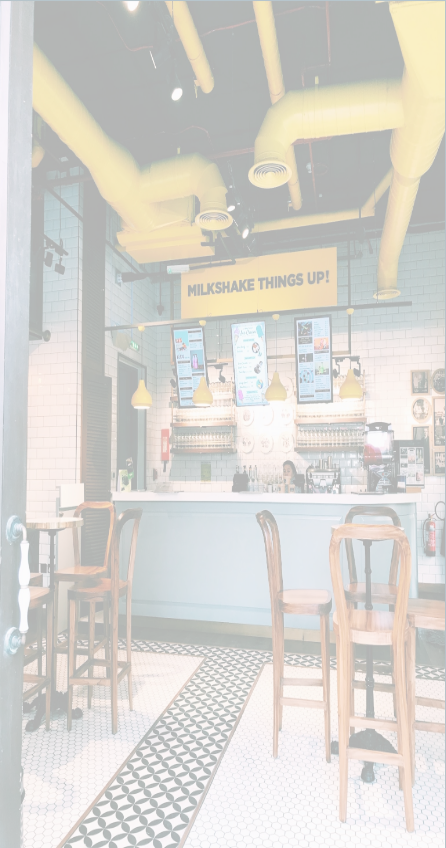
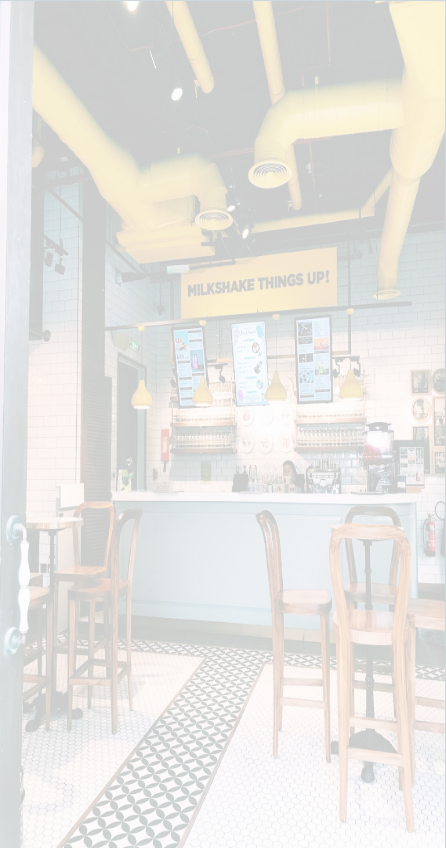
image and hamburger menu changes

diff --git a/reservation_style.css b/reservation_style.css
@@ -262,7 +262,7 @@ button:hover {
 
 @media only screen and (max-width: 768px) {
     body {
-        background-image: url(images/output-onlinepngtools.png);
+        background-image: url(images/luxa.org-opacity-changed-background.png);
       }
     .menu-items {
         display: none; 
@@ -417,7 +417,7 @@ button:hover {
   
     /* Style for the dropdown menu */
     .menu {
-      background-image: url(images/output-onlinepngtools.png);
+      background-image: url(images/luxa.org-opacity-changed-background.png);
       position: fixed;
       top: 0;
       left: 0;
@@ -441,6 +441,7 @@ button:hover {
       text-decoration: none;
       color: black;
       font-size: 18px;
+      font-weight: bold;
     }
   
     /* Style for the hamburger menu toggle */
@@ -516,7 +517,7 @@ button:hover {
     }
   
     body {
-      background-image: url(images/output-onlinepngtools.png);
+      background-image: url(images/luxa.org-opacity-changed-background.png);
     }
     .shopping-cart-icon img {
       height: 25px;
@@ -570,11 +571,12 @@ button:hover {
   
   /* Switch styles */
   .switch {
-    position: fixed;
+    position: absolute;
     display: inline-block;
-    width: 36px;
+    width: 40px;
     height: 20px;
     right: 20px;
+    top: 235px;
   }
   
   .slider {
@@ -584,7 +586,7 @@ button:hover {
     left: 0;
     right: 0;
     bottom: 0;
-    background-color: #ccc;
+    background-color: #000000;
     -webkit-transition: 0.4s;
     transition: 0.4s;
     border-radius: 20px;
@@ -604,11 +606,11 @@ button:hover {
   }
   
   input:checked + .slider {
-    background-color: #2196f3;
+    background-color: #1eff00;
   }
   
   input:focus + .slider {
-    box-shadow: 0 0 1px #2196f3;
+    box-shadow: 0 0 1px #00ff2a;
   }
   
   input:checked + .slider:before {

diff --git a/styles.css b/styles.css
@@ -373,6 +373,7 @@ footer ul li a {
     text-decoration: none;
     color: black;
     font-size: 18px;
+    font-weight: bold;
   }
 
   /* Style for the hamburger menu toggle */
@@ -448,7 +449,7 @@ footer ul li a {
   }
 
   body {
-    background-image: url(images/output-onlinepngtools.png);
+    background-image: url(images/luxa.org-opacity-changed-background.png);
   }
   .shopping-cart-icon img {
     height: 25px;
@@ -583,7 +584,7 @@ footer ul li a {
 
   /* Style for the dropdown menu */
   .menu {
-    background-image: url(images/output-onlinepngtools.png);
+    background-image: url(images/luxa.org-opacity-changed-background.png);
     position: fixed;
     top: 0;
     left: 0;
@@ -682,7 +683,7 @@ footer ul li a {
   }
 
   body {
-    background-image: url(images/output-onlinepngtools.png);
+    background-image: url(images/luxa.org-opacity-changed-background.png);
   }
   .shopping-cart-icon img {
     height: 25px;
@@ -736,11 +737,12 @@ footer ul li a {
 
 /* Switch styles */
 .switch {
-  position: fixed;
+  position: absolute;
   display: inline-block;
-  width: 36px;
+  width: 40px;
   height: 20px;
   right: 20px;
+  top: 245px;
 }
 
 .slider {
@@ -750,7 +752,7 @@ footer ul li a {
   left: 0;
   right: 0;
   bottom: 0;
-  background-color: #ccc;
+  background-color: #000000;
   -webkit-transition: 0.4s;
   transition: 0.4s;
   border-radius: 20px;
@@ -770,11 +772,11 @@ footer ul li a {
 }
 
 input:checked + .slider {
-  background-color: #2196f3;
+  background-color: #1eff00;
 }
 
 input:focus + .slider {
-  box-shadow: 0 0 1px #2196f3;
+  box-shadow: 0 0 1px #00ff2a;
 }
 
 input:checked + .slider:before {

diff --git a/menu_style.css b/menu_style.css
@@ -5,7 +5,7 @@ body {
     min-height: 100vh;
     position: relative;
     overflow-x: hidden;
-    background-image: url(images/output-onlinepngtools.png);
+    background-image: url(images/luxa.org-opacity-changed-background.png);
 }
 
 
@@ -383,7 +383,7 @@ footer ul li a {
   
     /* Style for the dropdown menu */
     .menu {
-      background-image: url(images/output-onlinepngtools.png);
+      background-image: url(images/luxa.org-opacity-changed-background.png);
       position: fixed;
       top: 0;
       left: 0;
@@ -482,7 +482,7 @@ footer ul li a {
     }
   
     body {
-      background-image: url(images/output-onlinepngtools.png);
+      background-image: url(images/luxa.org-opacity-changed-background.png);
     }
     .shopping-cart-icon img {
       height: 25px;
@@ -536,11 +536,12 @@ footer ul li a {
   
   /* Switch styles */
   .switch {
-    position: fixed;
+    position: absolute;
     display: inline-block;
-    width: 36px;
+    width: 40px;
     height: 20px;
     right: 20px;
+    top: 245px;
   }
   
   .slider {
@@ -550,7 +551,7 @@ footer ul li a {
     left: 0;
     right: 0;
     bottom: 0;
-    background-color: #ccc;
+    background-color: #000000;
     -webkit-transition: 0.4s;
     transition: 0.4s;
     border-radius: 20px;
@@ -570,11 +571,11 @@ footer ul li a {
   }
   
   input:checked + .slider {
-    background-color: #2196f3;
+    background-color: #1eff00;
   }
   
   input:focus + .slider {
-    box-shadow: 0 0 1px #2196f3;
+    box-shadow: 0 0 1px #00ff2a;
   }
   
   input:checked + .slider:before {

diff --git a/cart.css b/cart.css
@@ -459,7 +459,7 @@ footer ul li a {
   
     /* Style for the dropdown menu */
     .menu {
-      background-image: url(images/output-onlinepngtools.png);
+      background-image: url(images/luxa.org-opacity-changed-background.png);
       position: fixed;
       top: 0;
       left: 0;
@@ -558,7 +558,7 @@ footer ul li a {
     }
   
     body {
-      background-image: url(images/output-onlinepngtools.png);
+      background-image: url(images/luxa.org-opacity-changed-background.png);
     }
     .shopping-cart-icon img {
       height: 25px;
@@ -612,11 +612,12 @@ footer ul li a {
   
   /* Switch styles */
   .switch {
-    position: fixed;
+    position: absolute;
     display: inline-block;
-    width: 36px;
+    width: 40px;
     height: 20px;
     right: 20px;
+    top: 245px;
   }
   
   .slider {
@@ -626,7 +627,7 @@ footer ul li a {
     left: 0;
     right: 0;
     bottom: 0;
-    background-color: #ccc;
+    background-color: #000000;
     -webkit-transition: 0.4s;
     transition: 0.4s;
     border-radius: 20px;
@@ -646,11 +647,11 @@ footer ul li a {
   }
   
   input:checked + .slider {
-    background-color: #2196f3;
+    background-color: #1eff00;
   }
   
   input:focus + .slider {
-    box-shadow: 0 0 1px #2196f3;
+    box-shadow: 0 0 1px #00ff2a;
   }
   
   input:checked + .slider:before {
